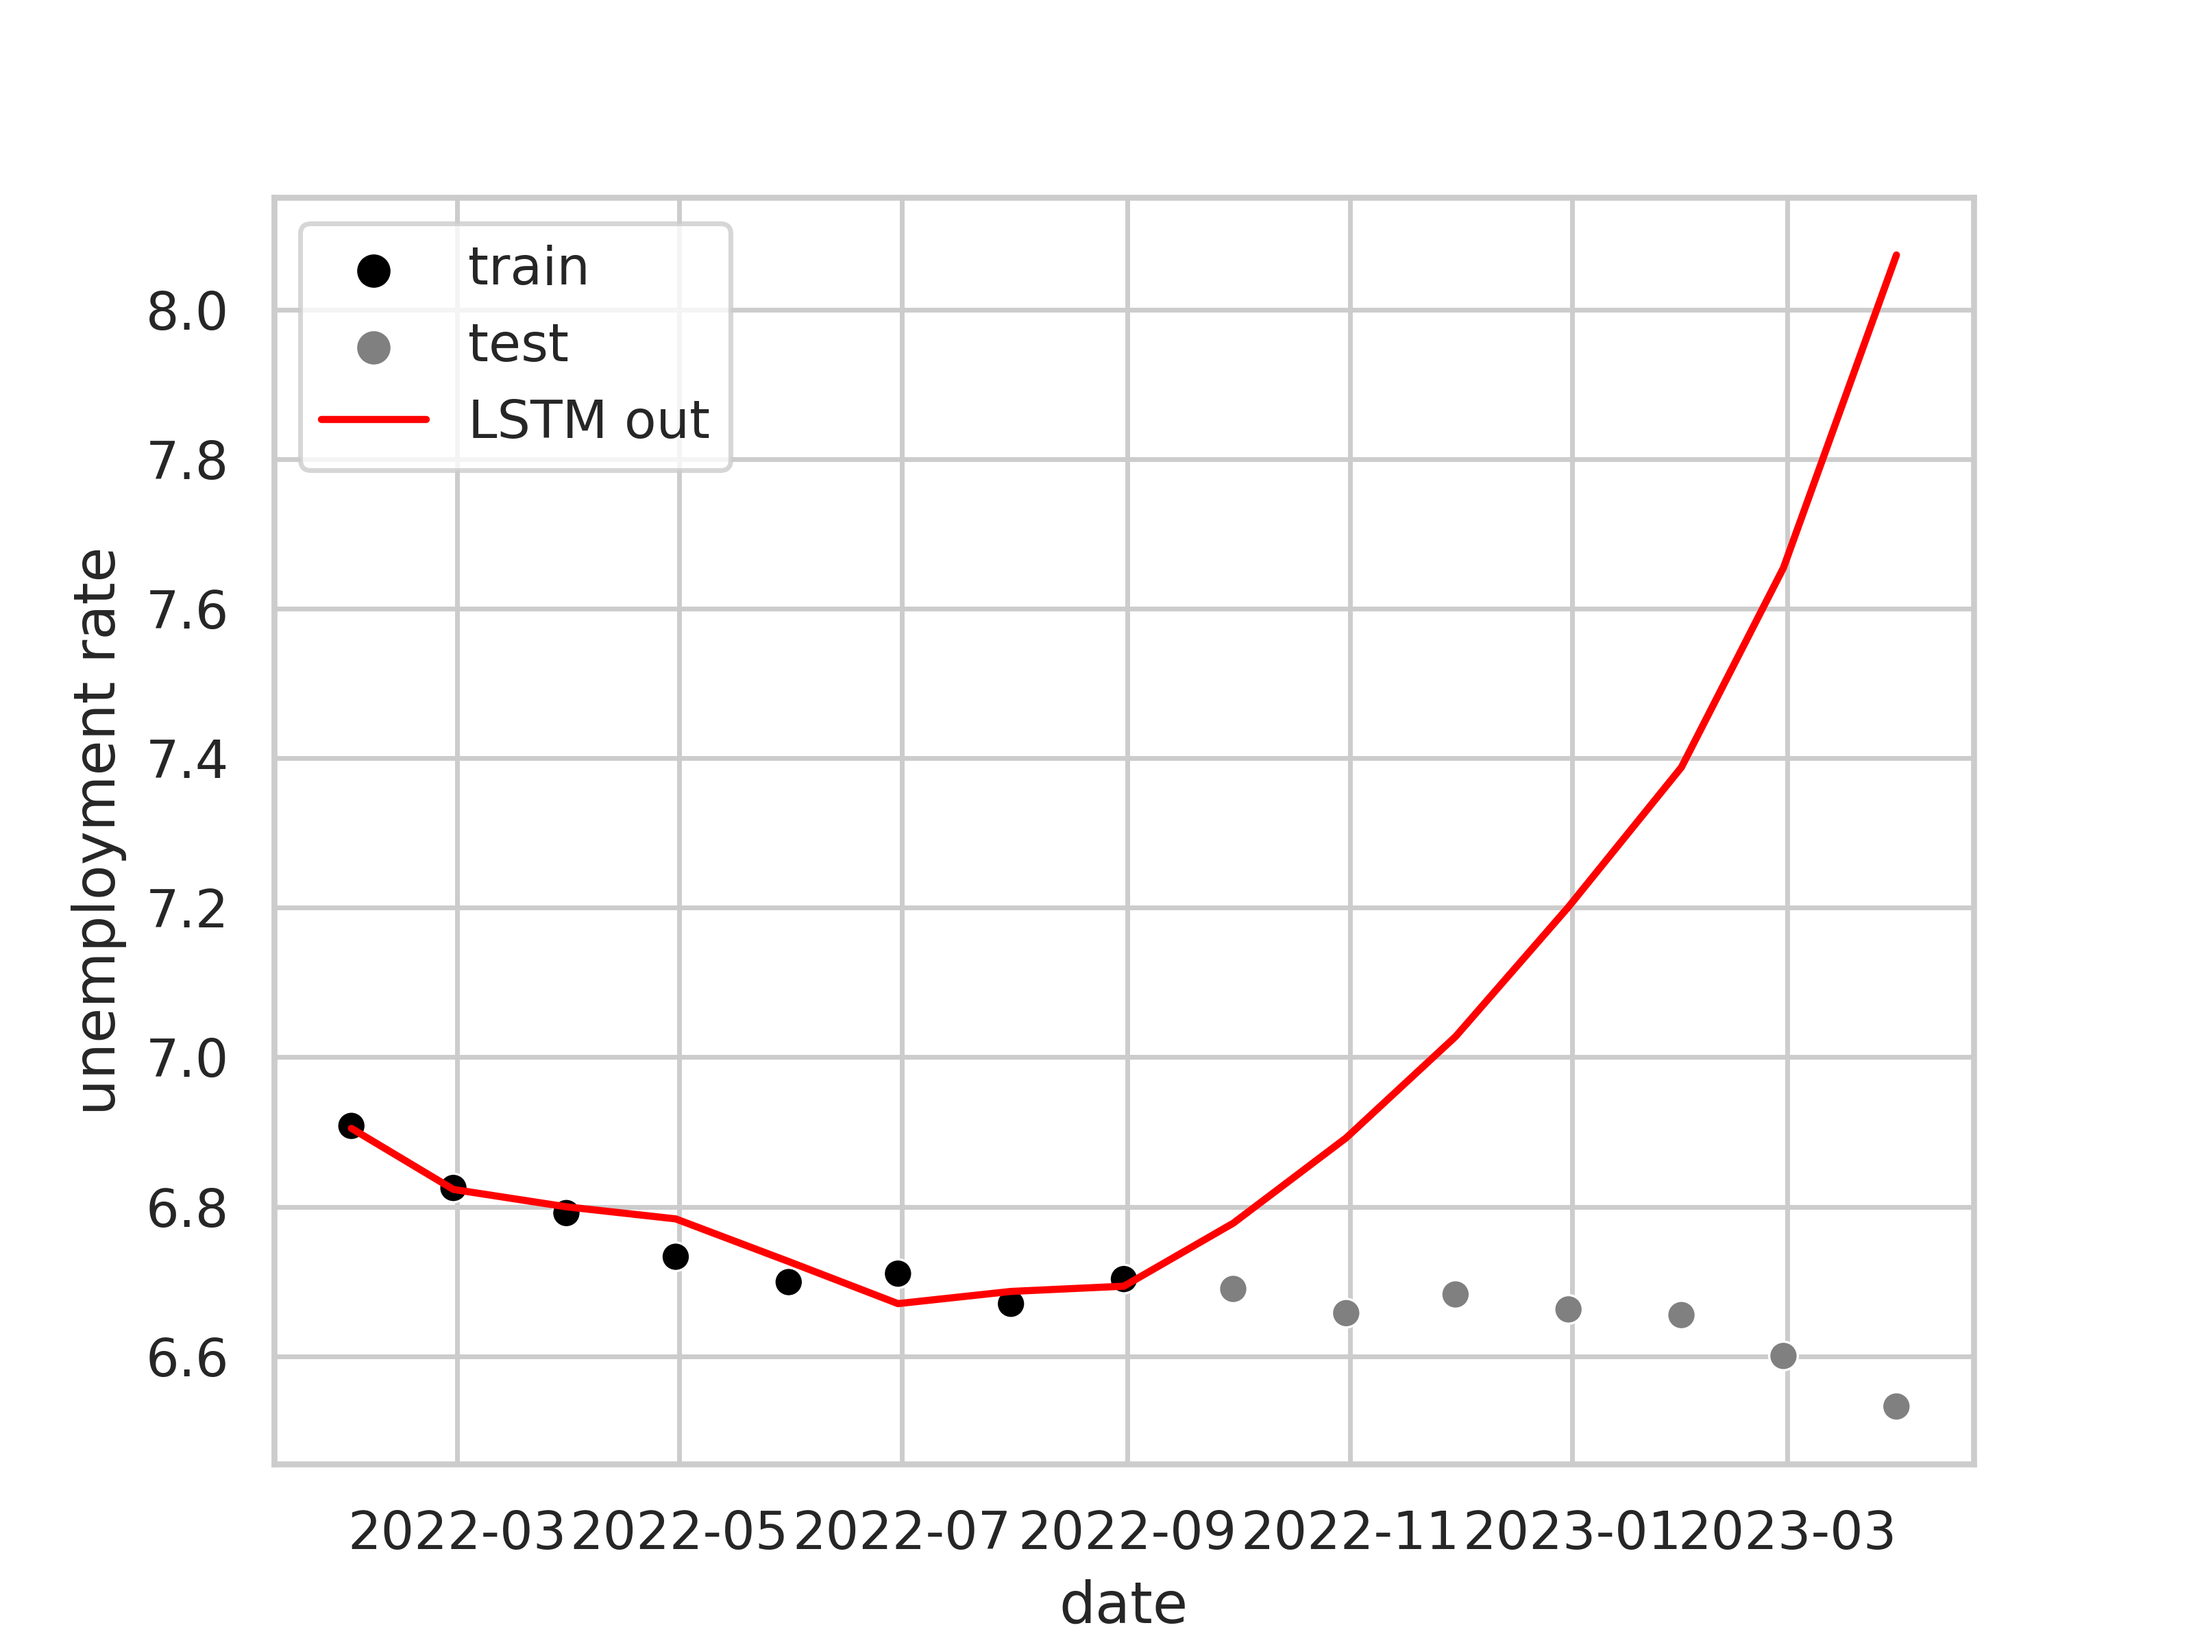
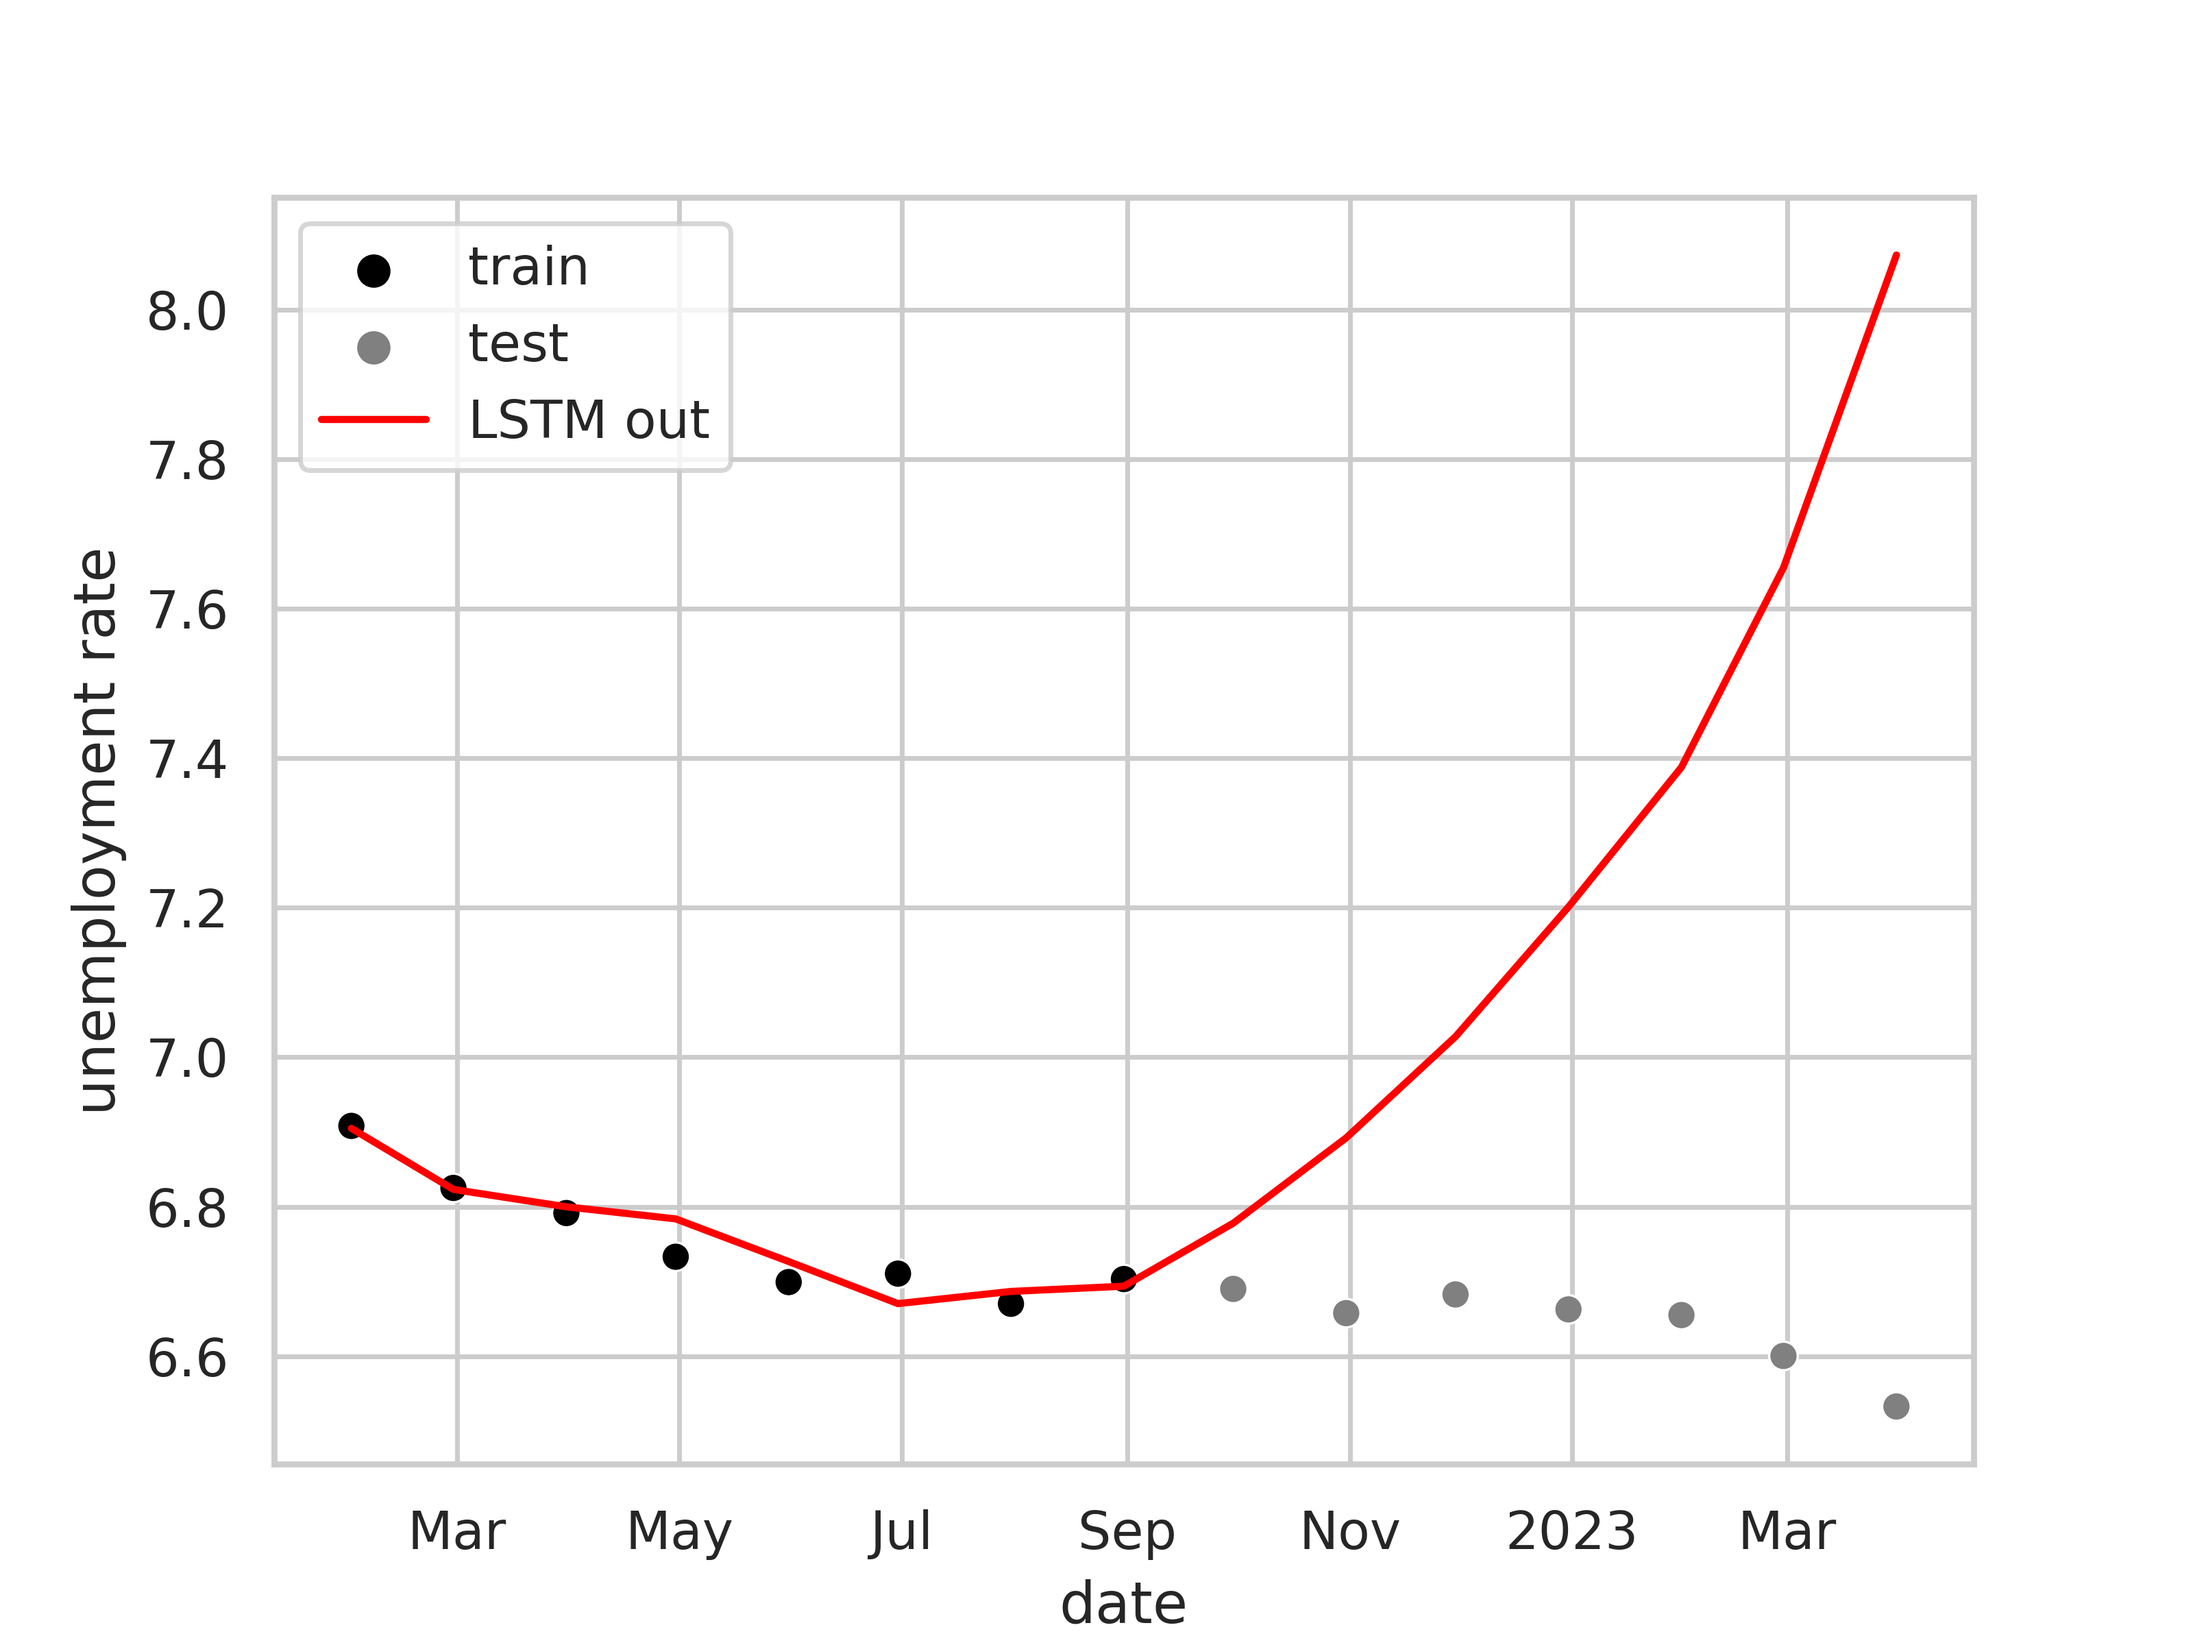
fix(LSTM): fix x-axis labels for zoomed plot
* rerun plotgeneration for U and UKDGVILMCE data sets
* UEK needs retraining, first

Changed region(s): [[0.1562, 0.9062, 0.875, 0.9375]]

diff --git a/src/eu_unemployment_prediction/lstm/unemployment_lstm_trainer.py b/src/eu_unemployment_prediction/lstm/unemployment_lstm_trainer.py
@@ -6,6 +6,7 @@ import numpy as np
 import numpy.typing as npt
 import torch
 from matplotlib import pyplot as plt
+from matplotlib.dates import ConciseDateFormatter
 from torch import nn, Tensor
 
 from eu_unemployment_prediction.input_data_type import InputDataType
@@ -84,6 +85,7 @@ class UnemploymentLstmTrainer:
         return loss
 
     def plot(self, file_path: Path, feature: InputDataType, plot_mask: Optional[npt.NDArray[np.bool_]] = None) -> None:
+        self._LOGGER.info(f"Creating plot {file_path.name} for feature {feature}")
         if feature not in self._model.input_features:
             raise ValueError(
                 f"Cannot plot results for {feature} since it is not part of the model. "
@@ -99,8 +101,10 @@ class UnemploymentLstmTrainer:
             c="red",
             label="LSTM out",
         )
+        ax.xaxis.set_major_formatter(ConciseDateFormatter(ax.xaxis.get_major_locator()))
         ax.legend()
         plt.savefig(file_path, dpi=500)
+        self._LOGGER.info(f"Saved plot to {file_path.as_uri()}")
         plt.clf()
 
     def _predict_future(self) -> npt.NDArray[np.float32]:
